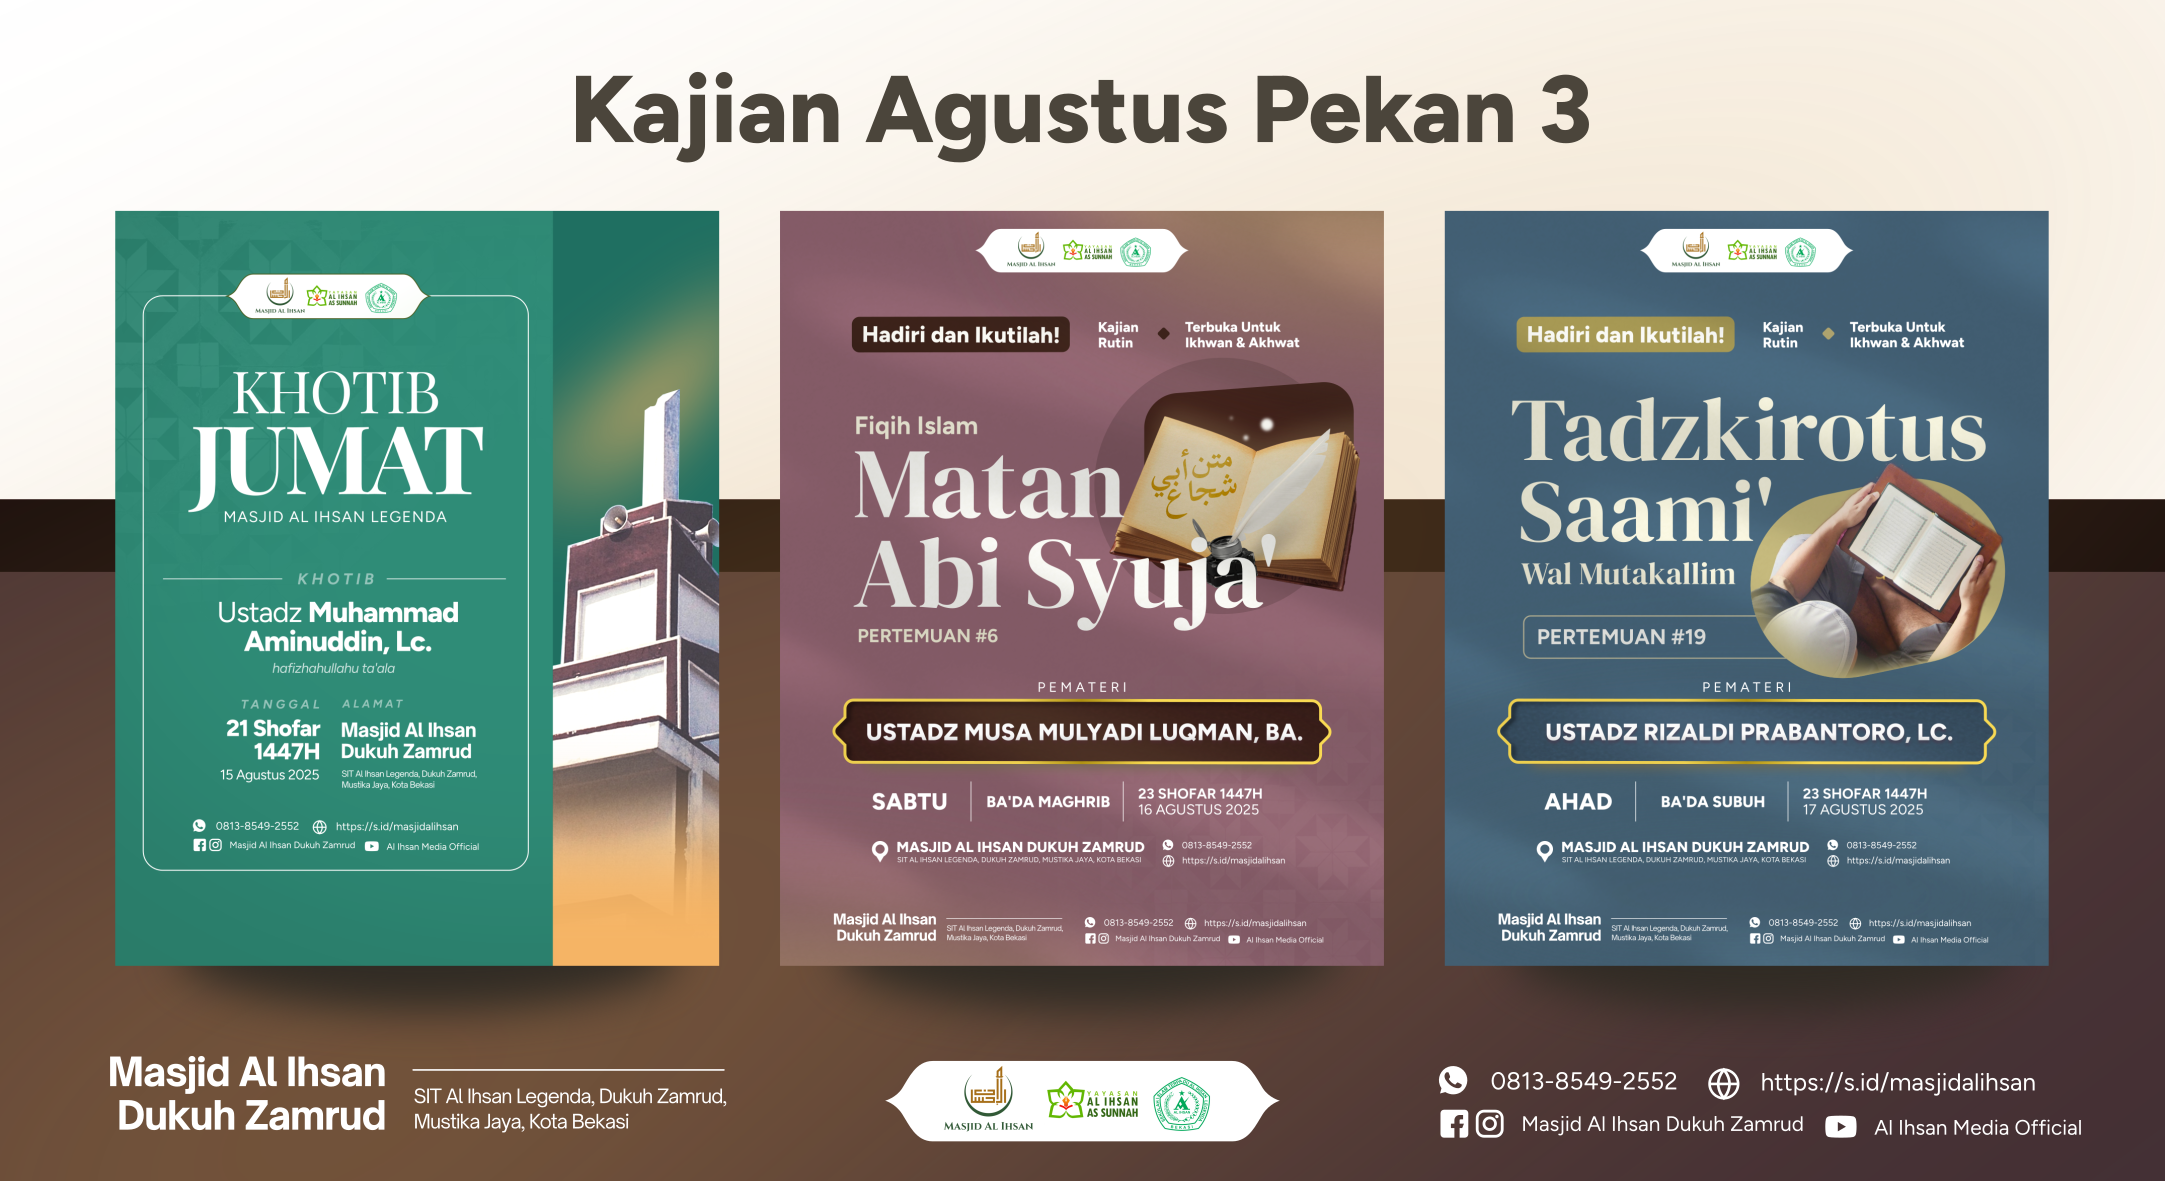
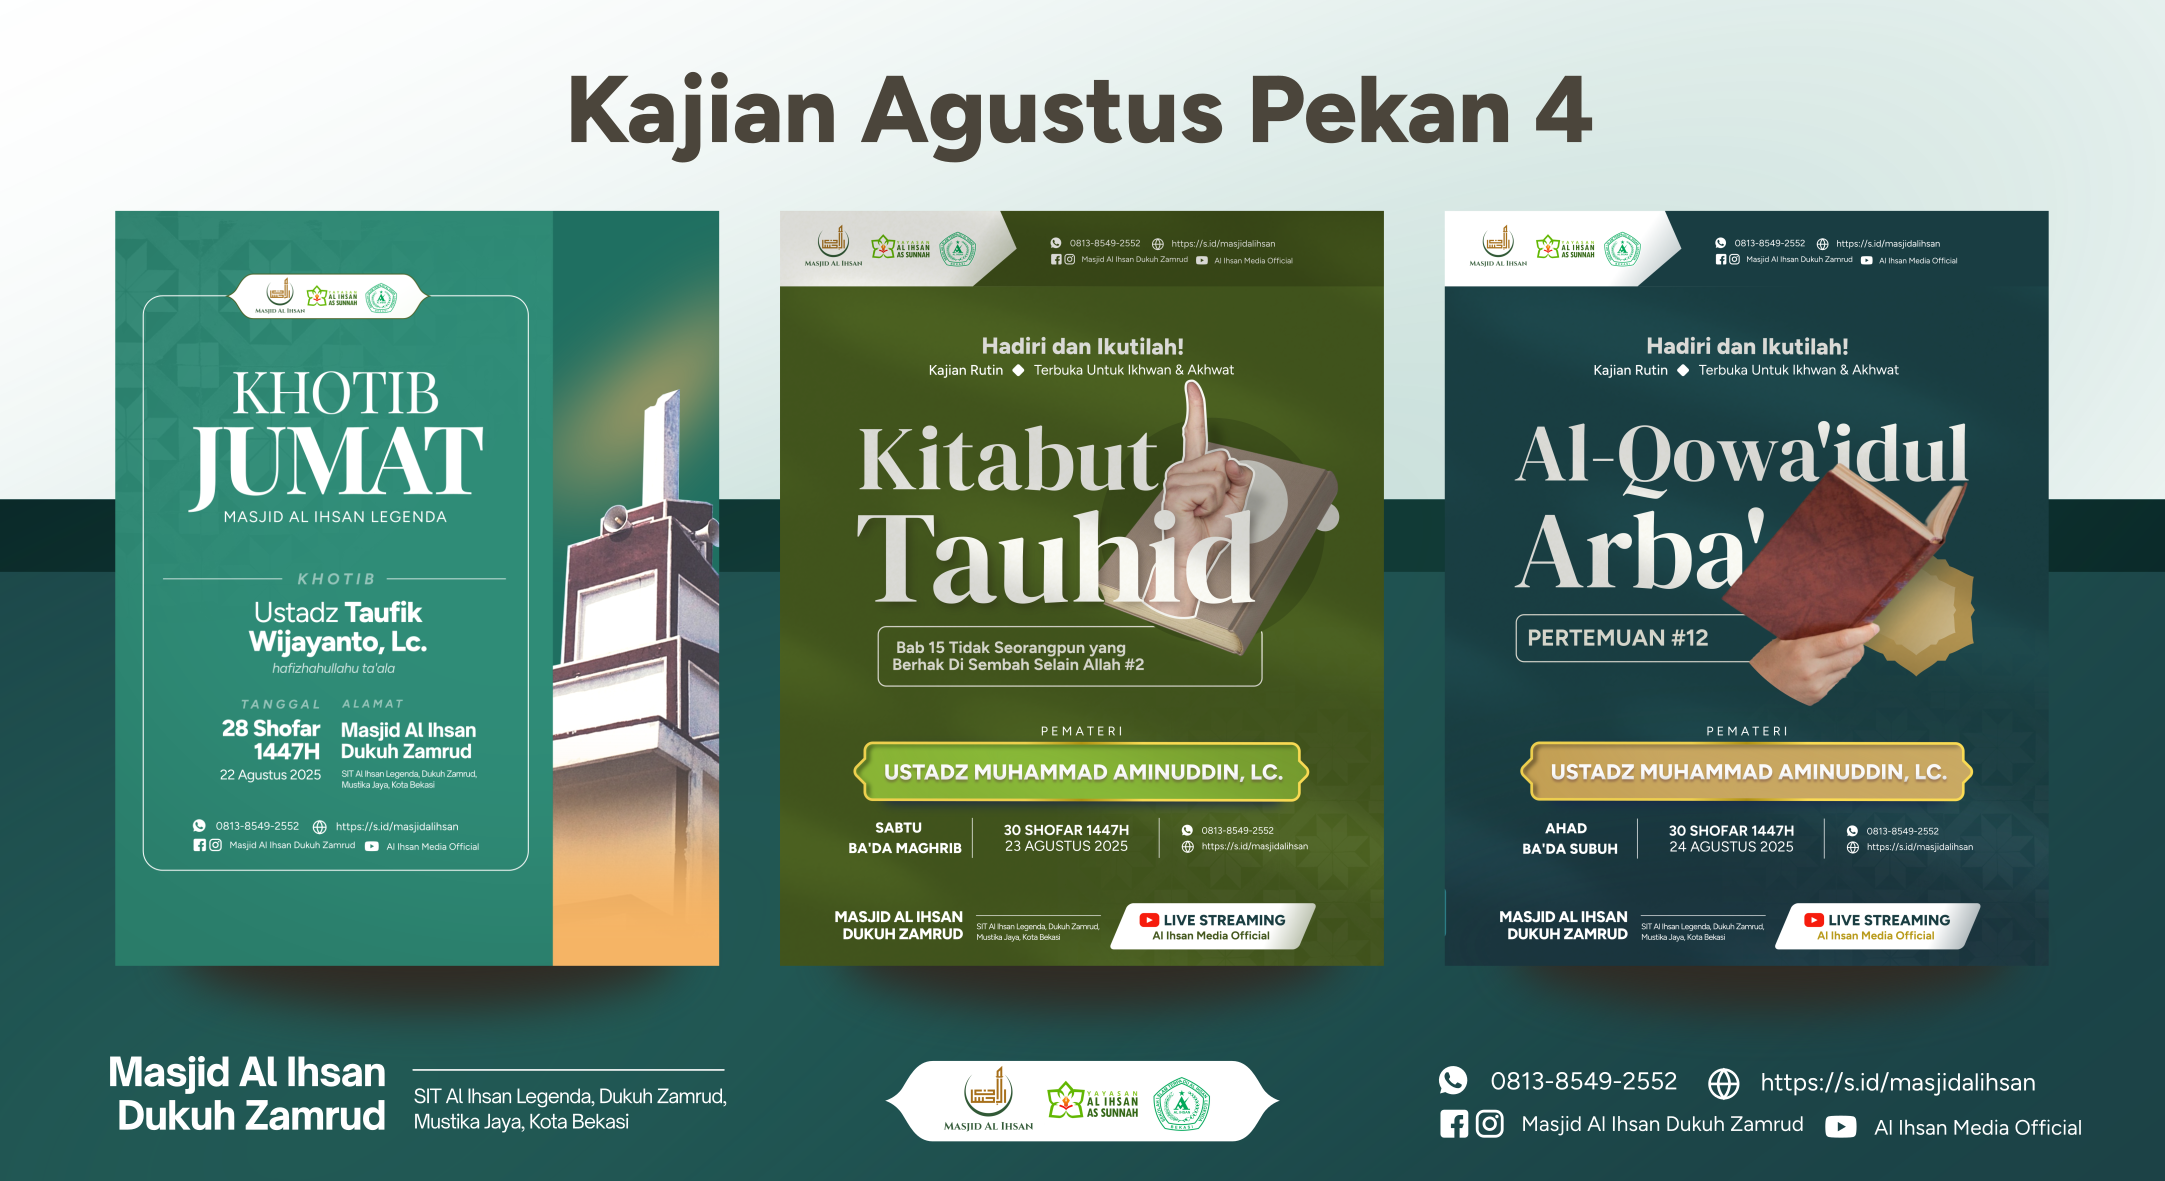
push

diff --git a/alihsan/index1.html b/alihsan/index1.html
@@ -4,7 +4,7 @@
         // for (;;) {
         setTimeout(function() {document.getElementById("myImage").src = "TV_adabDalamMasjid2.png";}, 10000)
         setTimeout(function() {document.getElementById("myImage").src = "TV_adabDalamMasjid3.png";}, 20000)
-        setTimeout(function() {document.getElementById("myImage").src = "LapMei25.png";}, 30000)
+        setTimeout(function() {document.getElementById("myImage").src = "LapM.png";}, 30000)
         setTimeout(function() {document.getElementById("myImage").src = "Kajian.png";}, 40000)
         setTimeout(function() {document.getElementById("myImage").src = "Faidah.png";}, 50000)
         // }
